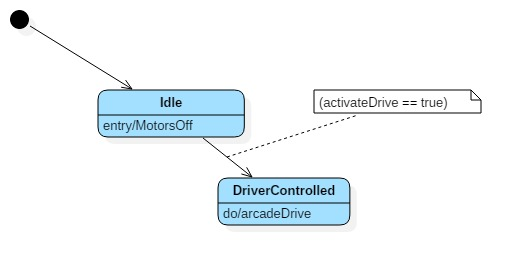
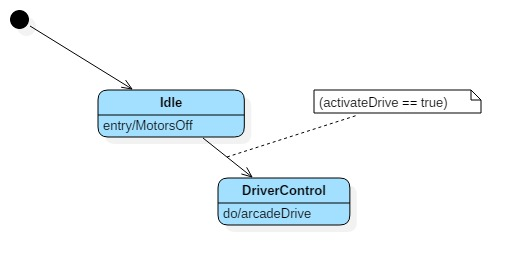
Update drive states and command name
ActiveDrive is now DriverControl

Changed region(s): [[0.4291, 0.6943, 0.6437, 0.7547]]

diff --git a/src/org/usfirst/frc/team4183/robot/commands/DriveSubsystem/Idle.java b/src/org/usfirst/frc/team4183/robot/commands/DriveSubsystem/Idle.java
@@ -28,7 +28,7 @@ public class Idle extends Command {
     // Make this return true when this Command no longer needs to run execute()
     protected boolean isFinished() {
     	if(OI.btnActivateDrive.get()) {
-    		return CommandUtils.stateChange( this, new ActiveState());
+    		return CommandUtils.stateChange( this, new DriverControl());
     	}
     	return false;
     }

diff --git a/src/org/usfirst/frc/team4183/robot/commands/DriveSubsystem/DriverControl.java b/src/org/usfirst/frc/team4183/robot/commands/DriveSubsystem/DriverControl.java
@@ -8,9 +8,9 @@ import edu.wpi.first.wpilibj.command.Command;
 /**
  *
  */
-public class ActiveState extends Command {
+public class DriverControl extends Command {
 
-    public ActiveState() {
+    public DriverControl() {
         // Use requires() here to declare subsystem dependencies
         // eg. requires(chassis);
     	requires( Robot.driveSubsystem);
